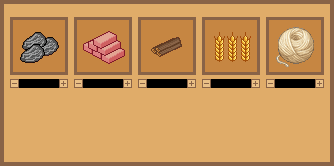
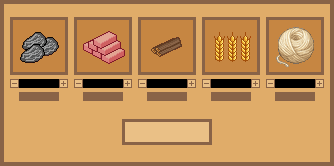
xp convert menu finaly works!!!!!!:

diff --git a/main.py b/main.py
@@ -3,7 +3,7 @@ import settings
 import classes
 import json
 import os
-import text_input
+from text_input import TextInput
 
 pygame.init()
 screen = pygame.display.set_mode(settings.WINDOW_SIZE)
@@ -86,6 +86,8 @@ scaled_cache = {} # כאן נשמור את התמונות אחרי ה-Scale
 border = pygame.image.load("images/border.png").convert_alpha()
 scaled_border = border
 xp_convert_icon = pygame.image.load("images/xp_convert.png").convert_alpha()
+xp_convert_menu = pygame.image.load("images/xp_convert_menu.png")
+xp_convert_menu = pygame.transform.scale(xp_convert_menu, (748, 362))
 font = pygame.font.Font("fonts/Minecraft.ttf", settings.FONT_SIZE)
 click_sound = pygame.mixer.Sound(settings.CLICK_SOUND)
 
@@ -155,7 +157,7 @@ while running:
             save_game()
             running = False
         
-        if event.type == pygame.MOUSEWHEEL:
+        if event.type == pygame.MOUSEWHEEL and not xp_menu_opened:
             world_x_before = (mx / zoom) - offset_x
             world_y_before = (my / zoom) - offset_y
             
@@ -175,14 +177,14 @@ while running:
             if counter <= 2:
                 if 700<mx<748 and 364<my<412:
                     open_xp_convert_menu()
-                else:
+                elif not xp_menu_opened:
                     ChangeGrid(hover_row, hover_col)
                 # print(settings.FONT_SIZE)
             counter = 0
             dragging = False
         if event.type == pygame.MOUSEMOTION and dragging:
             counter+=1
-            if counter > 2:
+            if counter > 2 and not xp_menu_opened:
                 dx, dy = event.rel
                 offset_x += dx / zoom
                 offset_y += dy / zoom
@@ -229,7 +231,9 @@ while running:
     text_xp = font.render(f"XP: {player.XP}", True, (255,255,255))
     screen.blit(text_xp,(25,text_offset))
     
-    ######## xp convert menu
+    if xp_menu_opened:
+        screen.blit(xp_convert_menu, (10,35))
+        screen.blit(xp_convert_icon, (700, 364))
 
     for popup in floating_texts[:]:
         popup_font = pygame.font.Font("fonts/Minecraft.ttf", int(zoom * 12)) 
